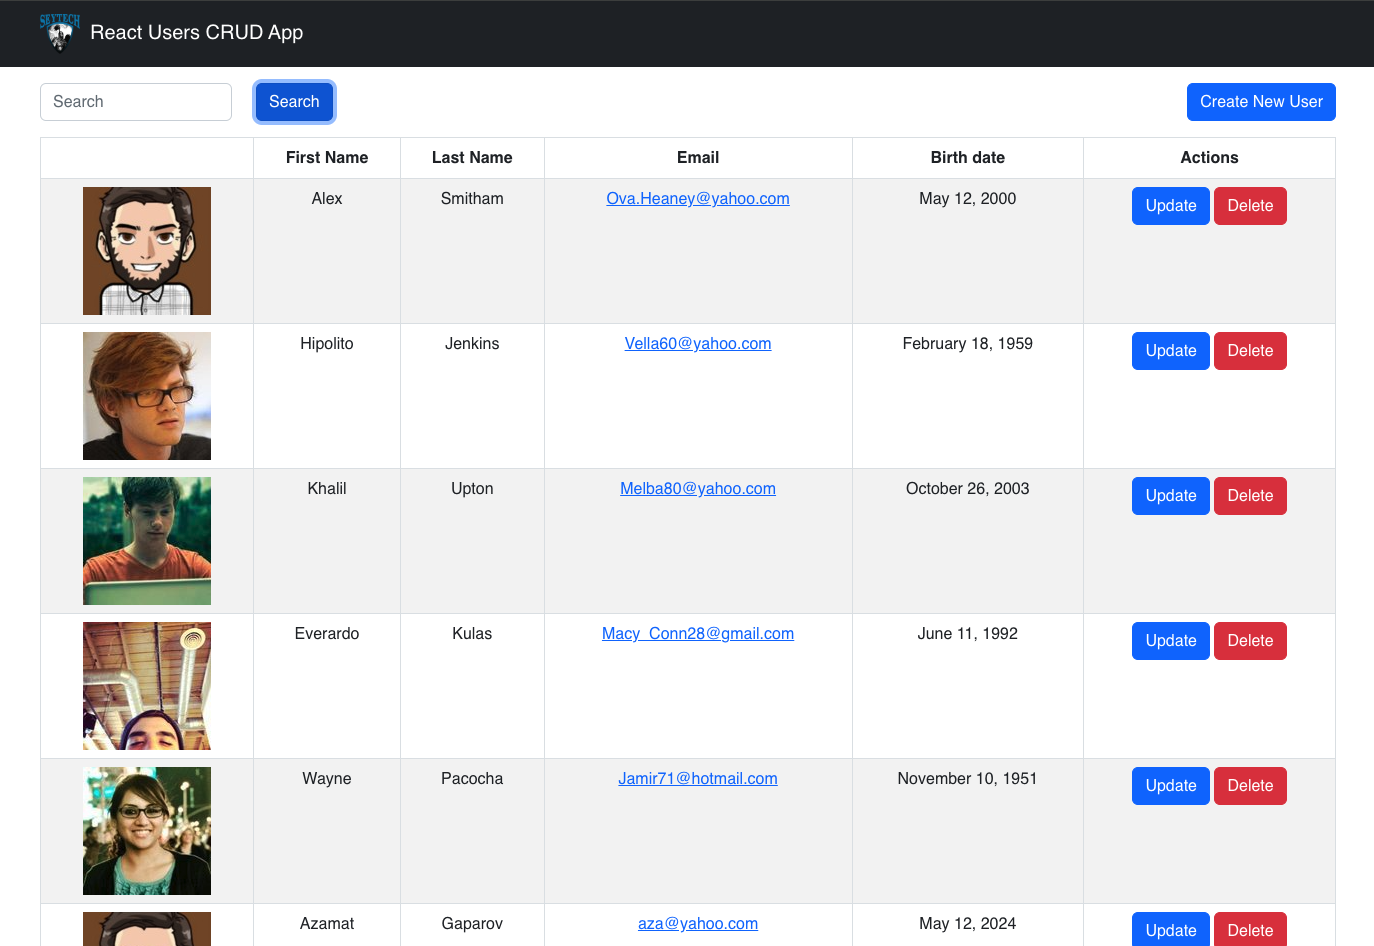
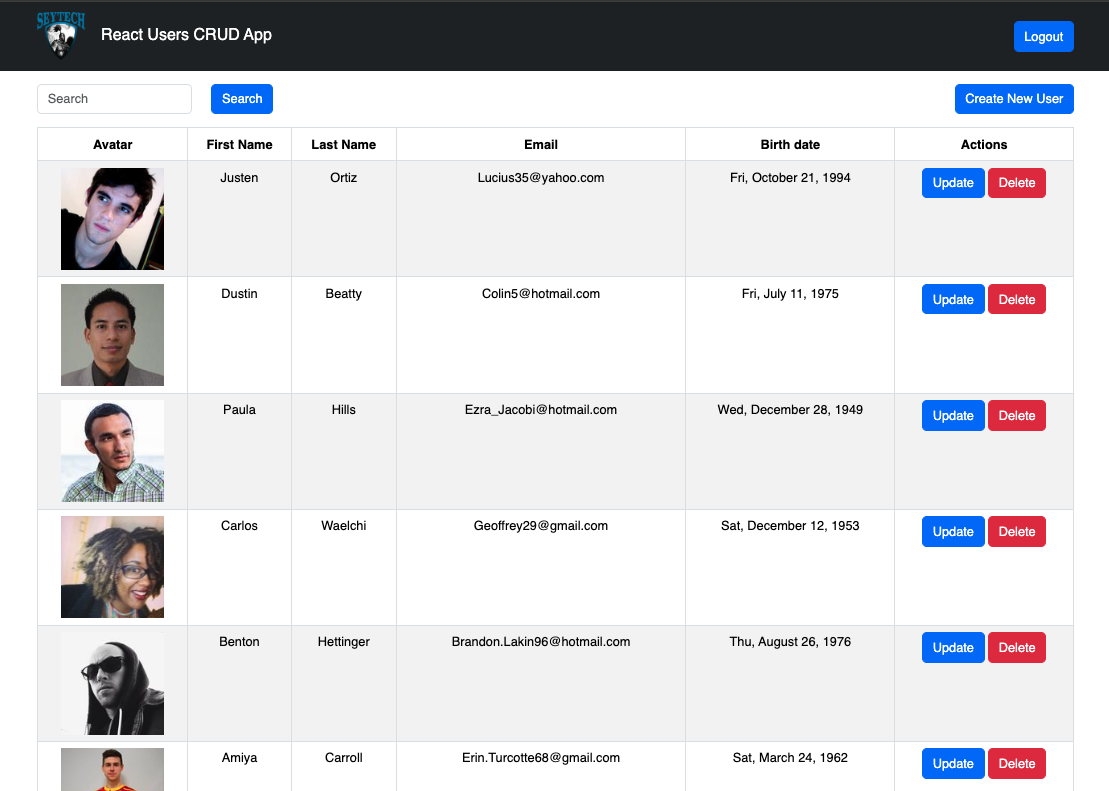
Updated readme

diff --git a/README.md b/README.md
@@ -1,4 +1,6 @@
-# React Users CRUD App
+# React Users CRUD App Demo with Login Page
+
+- This project is not completed, students will finish as a team.
 
 - Deployed demo UI can be viewed here: https://wretched-harbor.surge.sh/
 
@@ -22,16 +24,22 @@ You may also see any lint errors in the console.
 
 ### UI views
 
+### Login Page
+
+![login](./src/assets/images/login.png)
+
+### Initial View after logging in
+
 ![view](./src/assets/images/view1.png)
 
-### Create New User
+### Create New User (expected after finish)
 
 ![create](./src/assets/images/create.png)
 
-### Update User
+### Update User (expected after finish)
 
 ![update](./src/assets/images/update.png)
 
-### Delete User
+### Delete User (expected after finish)
 
 ![delete](./src/assets/images/delete.png)
